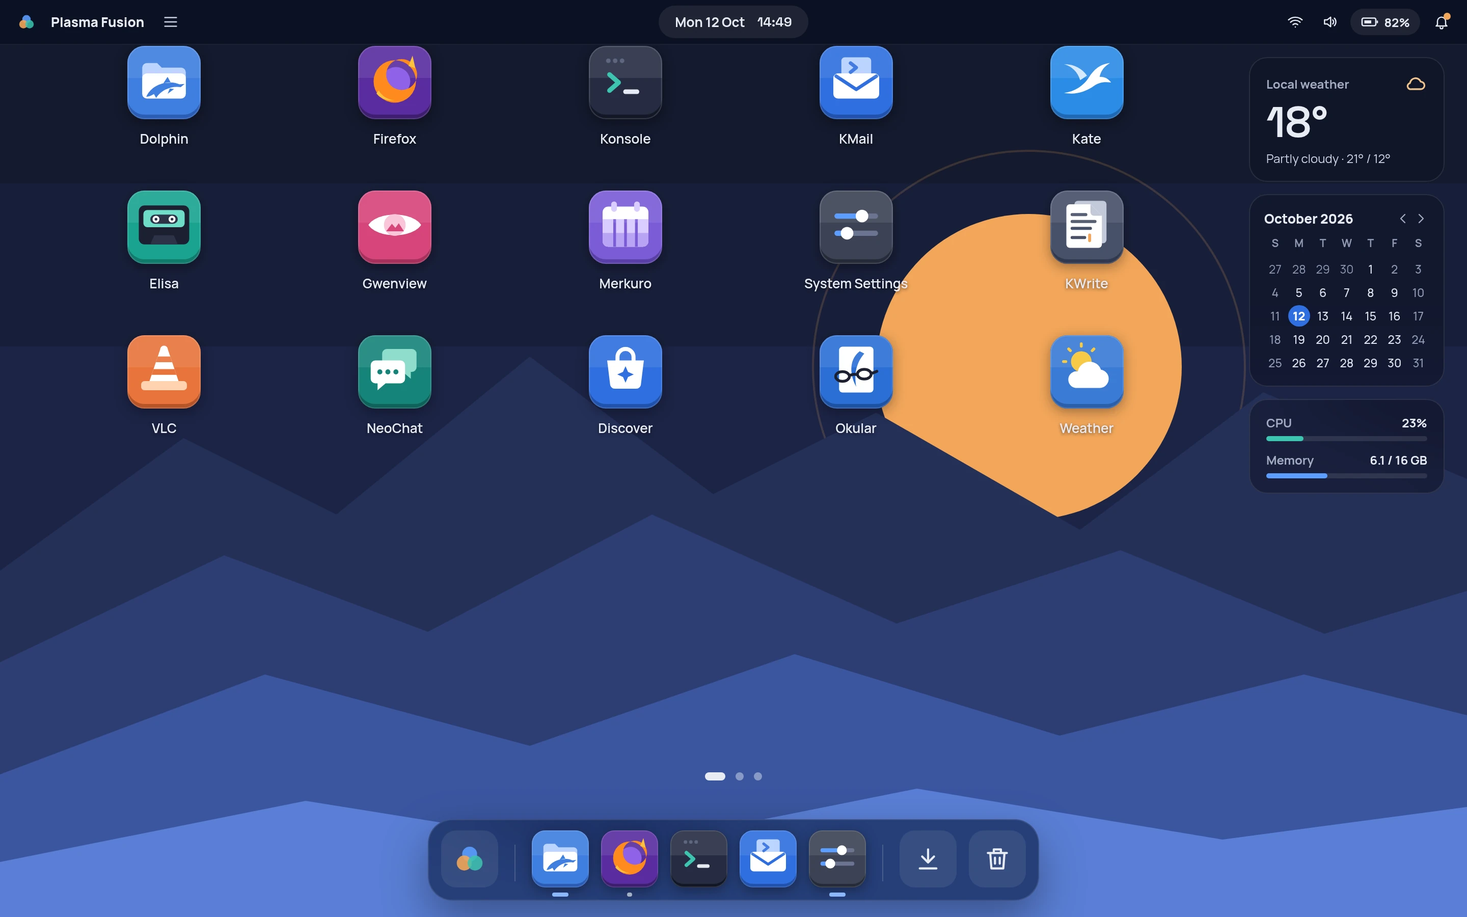
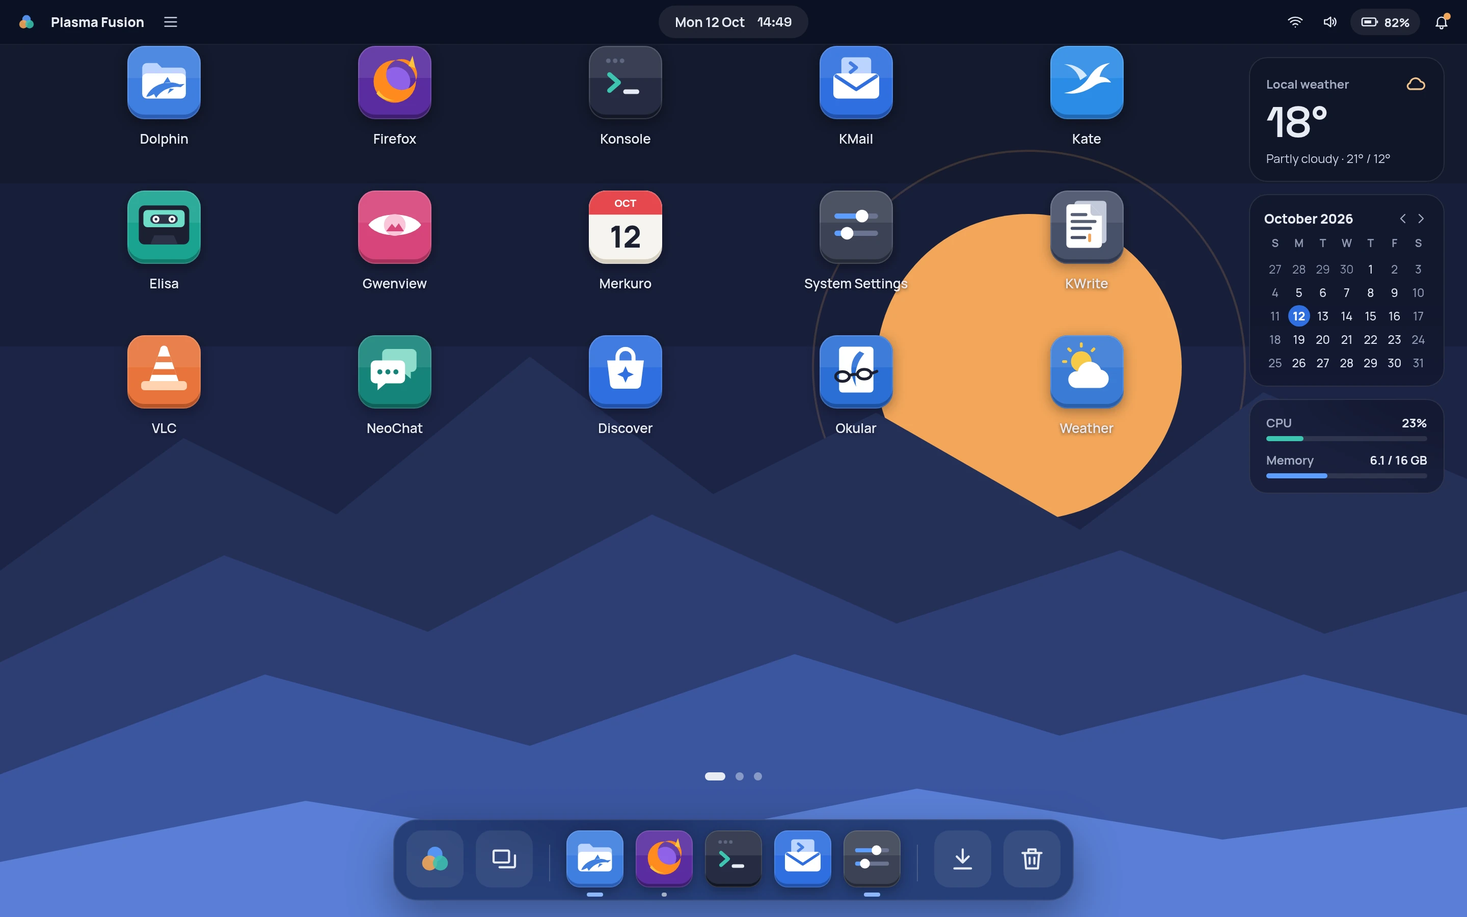
Design: the tablet dock keeps Overview; the calendar entry shows the date
The dock's overviewButton is unconditional while only searchButton is
gated on showSearch, which tablet posture turns off
(packages/plasmoids/org.plasmafusion.dock/contents/ui/main.qml), so both
tablet boards carry the Overview button between Start and the separator,
with the dock's own glyph.

The home grid's calendar entry drew the Merkuro suite tile, which carries
no labels; the tile the theme ships for a calendar name is the dated art
(generators/icons/art_tiles.py TILES['calendar'], the same art the Icons
board shows) and FusionIconTile paints today's month and day over its
fixed SEP / 28 (packages/common/FusionIconTile.qml, calendarDate). The
board now draws that art with the overlay painted as the component does;
the snapshot date matches the boards' Mon 12 Oct pill.

Previews re-rendered with design/render/render.py (Tablet, TabletLight).

Changed region(s): [[0.25, 0.8711, 0.75, 0.9956], [0.375, 0.1867, 0.4688, 0.3111]]

diff --git a/design/boards/TabletLight.dc.html b/design/boards/TabletLight.dc.html
@@ -68,7 +68,7 @@ a{color:#2f6fdf}a:hover{color:#2359c4}
 </div>
 
 <div style="display:flex;flex-direction:column;align-items:center;justify-content:center;gap:10px;height:100%">
-<button aria-label="Merkuro" class="tile" style="width:72px;height:72px;border-radius:19px"><svg xmlns="http://www.w3.org/2000/svg" width="72" height="72" viewBox="0 0 64 64"><path d="M15 0h34a15 15 0 0 1 15 15v34a15 15 0 0 1 -15 15h-34a15 15 0 0 1 -15 -15v-34a15 15 0 0 1 15 -15z" fill="#5a40a8"/><path d="M15 0h34a15 15 0 0 1 15 15v30a15 15 0 0 1 -15 15h-34a15 15 0 0 1 -15 -15v-30a15 15 0 0 1 15 -15z" fill="#7b5cd6"/><path d="M15 0h34a15 15 0 0 1 15 15v13H0V15A15 15 0 0 1 15 0z" fill="#ffffff" fill-opacity="0.09"/><path d="M17 14h30a5 5 0 0 1 5 5v25a5 5 0 0 1 -5 5h-30a5 5 0 0 1 -5 -5v-25a5 5 0 0 1 5 -5z" fill="#ffffff"/><path fill-rule="evenodd" d="M12 25H52V44a5 5 0 0 1-5 5H17a5 5 0 0 1-5-5z" fill="#d9ccff"/><path fill-rule="evenodd" d="M12 37H52V44a5 5 0 0 1-5 5H17a5 5 0 0 1-5-5z" fill="#b8a4f4"/><path d="M21.3 25h2.4a0 0 0 0 1 0 0v24a0 0 0 0 1 0 0h-2.4a0 0 0 0 1 0 0v-24a0 0 0 0 1 0 0zM30.8 25h2.4a0 0 0 0 1 0 0v24a0 0 0 0 1 0 0h-2.4a0 0 0 0 1 0 0v-24a0 0 0 0 1 0 0zM40.3 25h2.4a0 0 0 0 1 0 0v24a0 0 0 0 1 0 0h-2.4a0 0 0 0 1 0 0v-24a0 0 0 0 1 0 0z" fill="#7b5cd6"/><path d="M22 9.5h0a2.5 2.5 0 0 1 2.5 2.5v4a2.5 2.5 0 0 1 -2.5 2.5h0a2.5 2.5 0 0 1 -2.5 -2.5v-4a2.5 2.5 0 0 1 2.5 -2.5zM42 9.5h0a2.5 2.5 0 0 1 2.5 2.5v4a2.5 2.5 0 0 1 -2.5 2.5h0a2.5 2.5 0 0 1 -2.5 -2.5v-4a2.5 2.5 0 0 1 2.5 -2.5z" fill="#d9ccff"/><path d="M21.3 25h2.4a0 0 0 0 1 0 0v24a0 0 0 0 1 0 0h-2.4a0 0 0 0 1 0 0v-24a0 0 0 0 1 0 0zM30.8 25h2.4a0 0 0 0 1 0 0v24a0 0 0 0 1 0 0h-2.4a0 0 0 0 1 0 0v-24a0 0 0 0 1 0 0zM40.3 25h2.4a0 0 0 0 1 0 0v24a0 0 0 0 1 0 0h-2.4a0 0 0 0 1 0 0v-24a0 0 0 0 1 0 0z" fill="url(#pf-sheen)"/><path d="M15 0.5h34a14.5 14.5 0 0 1 14.5 14.5v34a14.5 14.5 0 0 1 -14.5 14.5h-34a14.5 14.5 0 0 1 -14.5 -14.5v-34a14.5 14.5 0 0 1 14.5 -14.5z" fill="none" stroke="#ffffff" stroke-opacity="0.14" stroke-width="1" stroke-linecap="butt" stroke-linejoin="miter"/></svg></button>
+<button aria-label="Merkuro" class="tile" style="width:72px;height:72px;border-radius:19px"><svg xmlns="http://www.w3.org/2000/svg" width="72" height="72" viewBox="0 0 64 64"><path d="M15 0h34a15 15 0 0 1 15 15v34a15 15 0 0 1 -15 15h-34a15 15 0 0 1 -15 -15v-34a15 15 0 0 1 15 -15z" fill="#d6d0c2"/><path d="M15 0h34a15 15 0 0 1 15 15v30a15 15 0 0 1 -15 15h-34a15 15 0 0 1 -15 -15v-30a15 15 0 0 1 15 -15z" fill="#f6f4ef"/><path d="M15 0h34a15 15 0 0 1 15 15v13H0V15A15 15 0 0 1 15 0z" fill="#ffffff" fill-opacity="0.09"/><path d="M15 0h34a15 15 0 0 1 15 15v6H0V15A15 15 0 0 1 15 0z" fill="#e5484d"/><path d="M15 0.5h34a14.5 14.5 0 0 1 14.5 14.5v34a14.5 14.5 0 0 1 -14.5 14.5h-34a14.5 14.5 0 0 1 -14.5 -14.5v-34a14.5 14.5 0 0 1 14.5 -14.5z" fill="none" stroke="#ffffff" stroke-opacity="0.14" stroke-width="1" stroke-linecap="butt" stroke-linejoin="miter"/><path d="M25.3985 14.082C24.9185 14.082 24.4857 13.9972 24.1003 13.8277C23.7148 13.6583 23.3983 13.4153 23.1508 13.0987C22.9033 12.7822 22.7465 12.405 22.6805 11.967L23.9585 11.778C24.0485 12.15 24.2345 12.4365 24.5165 12.6375C24.7985 12.8385 25.1195 12.939 25.4795 12.939C25.6805 12.939 25.8755 12.9076 26.0645 12.8447C26.2535 12.7818 26.4088 12.6889 26.5303 12.566C26.6518 12.4433 26.7125 12.292 26.7125 12.1123C26.7125 12.0464 26.7028 11.9827 26.6833 11.9213C26.6637 11.8599 26.6315 11.8022 26.5865 11.7483C26.5415 11.6944 26.4778 11.6435 26.3953 11.5956C26.3127 11.5477 26.2085 11.5043 26.0825 11.4654L24.3995 10.9711C24.2735 10.9352 24.1273 10.8843 23.9608 10.8184C23.7943 10.7524 23.633 10.6581 23.477 10.5353C23.321 10.4125 23.1913 10.25 23.0878 10.0478C22.9843 9.8456 22.9325 9.5903 22.9325 9.2818C22.9325 8.8475 23.042 8.4866 23.261 8.1991C23.48 7.9116 23.7725 7.6974 24.1385 7.5566C24.5045 7.4159 24.9095 7.3455 25.3535 7.3455C25.8005 7.3455 26.1995 7.4191 26.5505 7.5664C26.9015 7.7138 27.1955 7.9281 27.4325 8.2092C27.6695 8.4904 27.8405 8.834 27.9455 9.24L26.6225 9.465C26.5745 9.255 26.486 9.078 26.357 8.934C26.228 8.79 26.0742 8.6805 25.8958 8.6055C25.7173 8.5305 25.5305 8.49 25.3355 8.484C25.1435 8.478 24.9627 8.5042 24.7933 8.5627C24.6238 8.6212 24.4857 8.706 24.3793 8.817C24.2728 8.928 24.2195 9.06 24.2195 9.213C24.2195 9.354 24.263 9.4688 24.35 9.5572C24.437 9.6457 24.5465 9.717 24.6785 9.771C24.8105 9.825 24.9455 9.87 25.0835 9.906L26.2085 10.212C26.3765 10.257 26.5625 10.3162 26.7665 10.3897C26.9705 10.4633 27.1663 10.5652 27.3538 10.6958C27.5412 10.8262 27.6958 10.998 27.8173 11.211C27.9388 11.424 27.9995 11.694 27.9995 12.021C27.9995 12.369 27.9268 12.6728 27.7813 12.9322C27.6357 13.1917 27.44 13.4063 27.194 13.5757C26.948 13.7452 26.6698 13.872 26.3593 13.956C26.0488 14.04 25.7285 14.082 25.3985 14.082M29.7095 13.947L29.7095 7.467L33.9395 7.467L33.9395 8.61L30.9335 8.61L30.9335 9.996L33.3995 9.996L33.3995 11.139L30.9335 11.139L30.9335 12.804L33.9395 12.804L33.9395 13.947L29.7095 13.947M35.7395 13.947L35.7395 7.476L38.4755 7.476C38.5385 7.476 38.6233 7.476 38.7297 7.476C38.8362 7.476 38.9315 7.4835 39.0155 7.4985C39.4025 7.5586 39.7197 7.6862 39.9672 7.8814C40.2147 8.0766 40.397 8.3221 40.514 8.6179C40.631 8.9138 40.6895 9.2434 40.6895 9.6067C40.6895 9.9701 40.6303 10.2997 40.5117 10.5955C40.3932 10.8912 40.2102 11.1367 39.9627 11.332C39.7152 11.5273 39.3995 11.6549 39.0155 11.7148C38.9315 11.727 38.8355 11.736 38.7275 11.742C38.6195 11.748 38.5355 11.751 38.4755 11.751L36.9635 11.751L36.9635 13.947L35.7395 13.947M36.9635 10.608L38.4215 10.608C38.4845 10.608 38.5535 10.605 38.6285 10.599C38.7035 10.593 38.7725 10.581 38.8355 10.563C39.0005 10.518 39.128 10.4422 39.218 10.3357C39.308 10.2293 39.3703 10.1107 39.4047 9.9802C39.4392 9.8498 39.4565 9.726 39.4565 9.609C39.4565 9.492 39.4392 9.3682 39.4047 9.2377C39.3703 9.1073 39.308 8.9887 39.218 8.8822C39.128 8.7758 39.0005 8.7 38.8355 8.655C38.7725 8.637 38.7035 8.625 38.6285 8.619C38.5535 8.613 38.4845 8.61 38.4215 8.61L36.9635 8.61L36.9635 10.608" fill="#ffffff"/><path d="M17.57 49.496L17.57 47.312C17.57 46.0466 17.778 44.9936 18.194 44.153C18.61 43.3124 19.2124 42.619 20.001 42.073C20.7896 41.527 21.756 41.0806 22.9 40.734L24.642 40.188C25.2834 39.98 25.8206 39.7244 26.254 39.421C26.6874 39.1176 27.021 38.7494 27.255 38.316C27.489 37.8826 27.606 37.3886 27.606 36.834L27.606 36.73C27.606 35.8634 27.3114 35.1744 26.722 34.663C26.1326 34.1516 25.3266 33.896 24.304 33.896C23.2986 33.896 22.4884 34.169 21.873 34.715C21.2576 35.261 20.95 36.0454 20.95 37.068L20.95 37.536L17.622 37.536L17.622 37.12C17.622 35.8026 17.9166 34.6846 18.506 33.766C19.0954 32.8474 19.897 32.1454 20.911 31.66C21.925 31.1746 23.056 30.932 24.304 30.932C25.552 30.932 26.6786 31.1704 27.684 31.647C28.6894 32.1236 29.4824 32.791 30.063 33.649C30.6436 34.507 30.934 35.5166 30.934 36.678L30.934 36.938C30.934 38.0994 30.6956 39.083 30.219 39.889C29.7424 40.695 29.0966 41.3536 28.282 41.865C27.4674 42.3764 26.54 42.7966 25.5 43.126L23.836 43.646C23.0906 43.8714 22.51 44.1184 22.094 44.387C21.678 44.6556 21.3876 44.9504 21.223 45.271C21.0584 45.5916 20.976 45.9774 20.976 46.428L20.976 46.532L30.778 46.532L30.778 49.496L17.57 49.496M39.722 49.86C38.3354 49.86 37.109 49.652 36.043 49.236C34.977 48.82 34.145 48.2176 33.547 47.429C32.949 46.6404 32.65 45.7086 32.65 44.634L32.65 44.322C32.65 43.49 32.7974 42.801 33.092 42.255C33.3866 41.709 33.755 41.28 34.197 40.968C34.639 40.656 35.0594 40.4394 35.458 40.318L35.458 39.85C35.0594 39.7114 34.6606 39.486 34.262 39.174C33.8634 38.862 33.5384 38.446 33.287 37.926C33.0356 37.406 32.91 36.782 32.91 36.054L32.91 35.742C32.91 34.7886 33.1916 33.9524 33.755 33.233C34.3184 32.5136 35.1114 31.9504 36.134 31.543C37.1566 31.1356 38.3526 30.932 39.722 30.932C41.0914 30.932 42.2874 31.1356 43.31 31.543C44.3326 31.9504 45.1256 32.5136 45.689 33.233C46.2524 33.9524 46.534 34.7886 46.534 35.742L46.534 36.054C46.534 36.782 46.4084 37.406 46.157 37.926C45.9056 38.446 45.585 38.862 45.195 39.174C44.805 39.486 44.402 39.7114 43.986 39.85L43.986 40.318C44.402 40.4394 44.8266 40.656 45.26 40.968C45.6934 41.28 46.0574 41.709 46.352 42.255C46.6466 42.801 46.794 43.49 46.794 44.322L46.794 44.634C46.794 45.7086 46.495 46.6404 45.897 47.429C45.299 48.2176 44.467 48.82 43.401 49.236C42.335 49.652 41.1086 49.86 39.722 49.86M39.722 46.896C40.918 46.896 41.841 46.6664 42.491 46.207C43.141 45.7476 43.466 45.1366 43.466 44.374L43.466 44.166C43.466 43.4034 43.1496 42.7924 42.517 42.333C41.8844 41.8736 40.9526 41.644 39.722 41.644C38.5086 41.644 37.5814 41.8736 36.94 42.333C36.2986 42.7924 35.978 43.4034 35.978 44.166L35.978 44.374C35.978 45.1366 36.303 45.7476 36.953 46.207C37.603 46.6664 38.526 46.896 39.722 46.896M39.722 38.68C40.8314 38.68 41.6894 38.4806 42.296 38.082C42.9026 37.6834 43.206 37.12 43.206 36.392L43.206 36.184C43.206 35.456 42.894 34.8926 42.27 34.494C41.646 34.0954 40.7966 33.896 39.722 33.896C38.6474 33.896 37.798 34.0954 37.174 34.494C36.55 34.8926 36.238 35.456 36.238 36.184L36.238 36.392C36.238 37.12 36.5414 37.6834 37.148 38.082C37.7546 38.4806 38.6126 38.68 39.722 38.68" fill="#1b2031"/><rect x="14" y="3" width="36" height="16" fill="#e5484d"/><text x="32" y="14.2" text-anchor="middle" font-family="Manrope, system-ui, sans-serif" font-size="9" font-weight="800" fill="#ffffff">OCT</text><rect x="10" y="23" width="44" height="35" fill="#f6f4ef"/><text x="32" y="49.6" text-anchor="middle" font-family="Manrope, system-ui, sans-serif" font-size="26" font-weight="800" fill="#1b2031">12</text></svg></button>
 <span style="font-size:13px;font-weight:600;color:#ffffff;text-shadow:0 1px 3px rgba(0,0,0,0.55)">Merkuro</span>
 </div>
 
@@ -184,6 +184,7 @@ a{color:#2f6fdf}a:hover{color:#2359c4}
 <button aria-label="Start" style="width:56px;height:56px;border-radius:15px;display:flex;align-items:center;justify-content:center;background:rgba(255,255,255,0.08)">
 <svg width="32" height="32" viewBox="0 0 24 24" aria-hidden="true"><circle cx="12" cy="8.5" r="5.5" fill="#5b9dff" fill-opacity="0.9"></circle><circle cx="8" cy="15" r="5.5" fill="#f2a65a" fill-opacity="0.9"></circle><circle cx="16" cy="15" r="5.5" fill="#3cc4b0" fill-opacity="0.85"></circle></svg>
 </button>
+<button aria-label="Overview" style="width:56px;height:56px;border-radius:15px;display:flex;align-items:center;justify-content:center;background:rgba(20,24,39,0.08);color:#28304a"><svg class="i" width="28" height="28" viewBox="0 0 24 24"><path d="M4 5h11a1 1 0 0 1 1 1v8a1 1 0 0 1-1 1H4a1 1 0 0 1-1-1V6a1 1 0 0 1 1-1zM8 19h12a1 1 0 0 0 1-1V9"></path></svg></button>
 <span style="width:1px;height:36px;margin:0 4px 6px;background:rgba(20,24,39,0.16)"></span>
 <div style="position:relative;display:flex;flex-direction:column;align-items:center">
 <button aria-label="Dolphin" style="display:block;width:56px;height:56px;filter:drop-shadow(0 3px 6px rgba(0,0,0,0.35))"><svg xmlns="http://www.w3.org/2000/svg" width="56" height="56" viewBox="0 0 64 64"><defs><linearGradient id="pf-sheen" gradientUnits="userSpaceOnUse" x1="0" y1="0" x2="0" y2="64"><stop offset="0" stop-color="#ffffff" stop-opacity="0.09"/><stop offset="0.4375" stop-color="#ffffff" stop-opacity="0.09"/><stop offset="0.4375" stop-color="#ffffff" stop-opacity="0"/></linearGradient></defs><path d="M15 0h34a15 15 0 0 1 15 15v34a15 15 0 0 1 -15 15h-34a15 15 0 0 1 -15 -15v-34a15 15 0 0 1 15 -15z" fill="#2b5db5"/><path d="M15 0h34a15 15 0 0 1 15 15v30a15 15 0 0 1 -15 15h-34a15 15 0 0 1 -15 -15v-30a15 15 0 0 1 15 -15z" fill="#3f7fe0"/><path d="M15 0h34a15 15 0 0 1 15 15v13H0V15A15 15 0 0 1 15 0z" fill="#ffffff" fill-opacity="0.09"/><path d="M13 19a4 4 0 0 1 4-4h9l4 4h17a4 4 0 0 1 4 4v19H13z" fill="#bcd4ff"/><path fill-rule="evenodd" d="M17 24h30a4 4 0 0 1 4 4v14a4 4 0 0 1 -4 4h-30a4 4 0 0 1 -4 -4v-14a4 4 0 0 1 4 -4z" fill="#ffffff"/><path fill-rule="evenodd" d="M16.5 44.5c3-7 10-11.5 18.5-12.5 4-.4 7.5.3 10.5 1.6l4.5-.4-3.4 2.8c-4.4-.7-9 0-13 2-3.6 1.8-6.5 4.4-8.5 7.4l-1.9-3.4c-2.4 1.5-4.6 2.3-6.7 2.5zM31.5 32.6l3.6-5.6 2.8 5.1zM37 37.2l-1.8 4.6 5.6-4.1z" fill="#3f7fe0"/><path d="M16.5 44.5c3-7 10-11.5 18.5-12.5 4-.4 7.5.3 10.5 1.6l4.5-.4-3.4 2.8c-4.4-.7-9 0-13 2-3.6 1.8-6.5 4.4-8.5 7.4l-1.9-3.4c-2.4 1.5-4.6 2.3-6.7 2.5zM31.5 32.6l3.6-5.6 2.8 5.1zM37 37.2l-1.8 4.6 5.6-4.1z" fill="url(#pf-sheen)" fill-rule="evenodd"/><path d="M15 0.5h34a14.5 14.5 0 0 1 14.5 14.5v34a14.5 14.5 0 0 1 -14.5 14.5h-34a14.5 14.5 0 0 1 -14.5 -14.5v-34a14.5 14.5 0 0 1 14.5 -14.5z" fill="none" stroke="#ffffff" stroke-opacity="0.14" stroke-width="1" stroke-linecap="butt" stroke-linejoin="miter"/></svg></button>

diff --git a/design/boards/Tablet.dc.html b/design/boards/Tablet.dc.html
@@ -68,7 +68,7 @@ a{color:#8ab8ff}a:hover{color:#b9d4ff}
 </div>
 
 <div style="display:flex;flex-direction:column;align-items:center;justify-content:center;gap:10px;height:100%">
-<button aria-label="Merkuro" class="tile" style="width:72px;height:72px;border-radius:19px"><svg xmlns="http://www.w3.org/2000/svg" width="72" height="72" viewBox="0 0 64 64"><path d="M15 0h34a15 15 0 0 1 15 15v34a15 15 0 0 1 -15 15h-34a15 15 0 0 1 -15 -15v-34a15 15 0 0 1 15 -15z" fill="#5a40a8"/><path d="M15 0h34a15 15 0 0 1 15 15v30a15 15 0 0 1 -15 15h-34a15 15 0 0 1 -15 -15v-30a15 15 0 0 1 15 -15z" fill="#7b5cd6"/><path d="M15 0h34a15 15 0 0 1 15 15v13H0V15A15 15 0 0 1 15 0z" fill="#ffffff" fill-opacity="0.09"/><path d="M17 14h30a5 5 0 0 1 5 5v25a5 5 0 0 1 -5 5h-30a5 5 0 0 1 -5 -5v-25a5 5 0 0 1 5 -5z" fill="#ffffff"/><path fill-rule="evenodd" d="M12 25H52V44a5 5 0 0 1-5 5H17a5 5 0 0 1-5-5z" fill="#d9ccff"/><path fill-rule="evenodd" d="M12 37H52V44a5 5 0 0 1-5 5H17a5 5 0 0 1-5-5z" fill="#b8a4f4"/><path d="M21.3 25h2.4a0 0 0 0 1 0 0v24a0 0 0 0 1 0 0h-2.4a0 0 0 0 1 0 0v-24a0 0 0 0 1 0 0zM30.8 25h2.4a0 0 0 0 1 0 0v24a0 0 0 0 1 0 0h-2.4a0 0 0 0 1 0 0v-24a0 0 0 0 1 0 0zM40.3 25h2.4a0 0 0 0 1 0 0v24a0 0 0 0 1 0 0h-2.4a0 0 0 0 1 0 0v-24a0 0 0 0 1 0 0z" fill="#7b5cd6"/><path d="M22 9.5h0a2.5 2.5 0 0 1 2.5 2.5v4a2.5 2.5 0 0 1 -2.5 2.5h0a2.5 2.5 0 0 1 -2.5 -2.5v-4a2.5 2.5 0 0 1 2.5 -2.5zM42 9.5h0a2.5 2.5 0 0 1 2.5 2.5v4a2.5 2.5 0 0 1 -2.5 2.5h0a2.5 2.5 0 0 1 -2.5 -2.5v-4a2.5 2.5 0 0 1 2.5 -2.5z" fill="#d9ccff"/><path d="M21.3 25h2.4a0 0 0 0 1 0 0v24a0 0 0 0 1 0 0h-2.4a0 0 0 0 1 0 0v-24a0 0 0 0 1 0 0zM30.8 25h2.4a0 0 0 0 1 0 0v24a0 0 0 0 1 0 0h-2.4a0 0 0 0 1 0 0v-24a0 0 0 0 1 0 0zM40.3 25h2.4a0 0 0 0 1 0 0v24a0 0 0 0 1 0 0h-2.4a0 0 0 0 1 0 0v-24a0 0 0 0 1 0 0z" fill="url(#pf-sheen)"/><path d="M15 0.5h34a14.5 14.5 0 0 1 14.5 14.5v34a14.5 14.5 0 0 1 -14.5 14.5h-34a14.5 14.5 0 0 1 -14.5 -14.5v-34a14.5 14.5 0 0 1 14.5 -14.5z" fill="none" stroke="#ffffff" stroke-opacity="0.14" stroke-width="1" stroke-linecap="butt" stroke-linejoin="miter"/></svg></button>
+<button aria-label="Merkuro" class="tile" style="width:72px;height:72px;border-radius:19px"><svg xmlns="http://www.w3.org/2000/svg" width="72" height="72" viewBox="0 0 64 64"><path d="M15 0h34a15 15 0 0 1 15 15v34a15 15 0 0 1 -15 15h-34a15 15 0 0 1 -15 -15v-34a15 15 0 0 1 15 -15z" fill="#d6d0c2"/><path d="M15 0h34a15 15 0 0 1 15 15v30a15 15 0 0 1 -15 15h-34a15 15 0 0 1 -15 -15v-30a15 15 0 0 1 15 -15z" fill="#f6f4ef"/><path d="M15 0h34a15 15 0 0 1 15 15v13H0V15A15 15 0 0 1 15 0z" fill="#ffffff" fill-opacity="0.09"/><path d="M15 0h34a15 15 0 0 1 15 15v6H0V15A15 15 0 0 1 15 0z" fill="#e5484d"/><path d="M15 0.5h34a14.5 14.5 0 0 1 14.5 14.5v34a14.5 14.5 0 0 1 -14.5 14.5h-34a14.5 14.5 0 0 1 -14.5 -14.5v-34a14.5 14.5 0 0 1 14.5 -14.5z" fill="none" stroke="#ffffff" stroke-opacity="0.14" stroke-width="1" stroke-linecap="butt" stroke-linejoin="miter"/><path d="M25.3985 14.082C24.9185 14.082 24.4857 13.9972 24.1003 13.8277C23.7148 13.6583 23.3983 13.4153 23.1508 13.0987C22.9033 12.7822 22.7465 12.405 22.6805 11.967L23.9585 11.778C24.0485 12.15 24.2345 12.4365 24.5165 12.6375C24.7985 12.8385 25.1195 12.939 25.4795 12.939C25.6805 12.939 25.8755 12.9076 26.0645 12.8447C26.2535 12.7818 26.4088 12.6889 26.5303 12.566C26.6518 12.4433 26.7125 12.292 26.7125 12.1123C26.7125 12.0464 26.7028 11.9827 26.6833 11.9213C26.6637 11.8599 26.6315 11.8022 26.5865 11.7483C26.5415 11.6944 26.4778 11.6435 26.3953 11.5956C26.3127 11.5477 26.2085 11.5043 26.0825 11.4654L24.3995 10.9711C24.2735 10.9352 24.1273 10.8843 23.9608 10.8184C23.7943 10.7524 23.633 10.6581 23.477 10.5353C23.321 10.4125 23.1913 10.25 23.0878 10.0478C22.9843 9.8456 22.9325 9.5903 22.9325 9.2818C22.9325 8.8475 23.042 8.4866 23.261 8.1991C23.48 7.9116 23.7725 7.6974 24.1385 7.5566C24.5045 7.4159 24.9095 7.3455 25.3535 7.3455C25.8005 7.3455 26.1995 7.4191 26.5505 7.5664C26.9015 7.7138 27.1955 7.9281 27.4325 8.2092C27.6695 8.4904 27.8405 8.834 27.9455 9.24L26.6225 9.465C26.5745 9.255 26.486 9.078 26.357 8.934C26.228 8.79 26.0742 8.6805 25.8958 8.6055C25.7173 8.5305 25.5305 8.49 25.3355 8.484C25.1435 8.478 24.9627 8.5042 24.7933 8.5627C24.6238 8.6212 24.4857 8.706 24.3793 8.817C24.2728 8.928 24.2195 9.06 24.2195 9.213C24.2195 9.354 24.263 9.4688 24.35 9.5572C24.437 9.6457 24.5465 9.717 24.6785 9.771C24.8105 9.825 24.9455 9.87 25.0835 9.906L26.2085 10.212C26.3765 10.257 26.5625 10.3162 26.7665 10.3897C26.9705 10.4633 27.1663 10.5652 27.3538 10.6958C27.5412 10.8262 27.6958 10.998 27.8173 11.211C27.9388 11.424 27.9995 11.694 27.9995 12.021C27.9995 12.369 27.9268 12.6728 27.7813 12.9322C27.6357 13.1917 27.44 13.4063 27.194 13.5757C26.948 13.7452 26.6698 13.872 26.3593 13.956C26.0488 14.04 25.7285 14.082 25.3985 14.082M29.7095 13.947L29.7095 7.467L33.9395 7.467L33.9395 8.61L30.9335 8.61L30.9335 9.996L33.3995 9.996L33.3995 11.139L30.9335 11.139L30.9335 12.804L33.9395 12.804L33.9395 13.947L29.7095 13.947M35.7395 13.947L35.7395 7.476L38.4755 7.476C38.5385 7.476 38.6233 7.476 38.7297 7.476C38.8362 7.476 38.9315 7.4835 39.0155 7.4985C39.4025 7.5586 39.7197 7.6862 39.9672 7.8814C40.2147 8.0766 40.397 8.3221 40.514 8.6179C40.631 8.9138 40.6895 9.2434 40.6895 9.6067C40.6895 9.9701 40.6303 10.2997 40.5117 10.5955C40.3932 10.8912 40.2102 11.1367 39.9627 11.332C39.7152 11.5273 39.3995 11.6549 39.0155 11.7148C38.9315 11.727 38.8355 11.736 38.7275 11.742C38.6195 11.748 38.5355 11.751 38.4755 11.751L36.9635 11.751L36.9635 13.947L35.7395 13.947M36.9635 10.608L38.4215 10.608C38.4845 10.608 38.5535 10.605 38.6285 10.599C38.7035 10.593 38.7725 10.581 38.8355 10.563C39.0005 10.518 39.128 10.4422 39.218 10.3357C39.308 10.2293 39.3703 10.1107 39.4047 9.9802C39.4392 9.8498 39.4565 9.726 39.4565 9.609C39.4565 9.492 39.4392 9.3682 39.4047 9.2377C39.3703 9.1073 39.308 8.9887 39.218 8.8822C39.128 8.7758 39.0005 8.7 38.8355 8.655C38.7725 8.637 38.7035 8.625 38.6285 8.619C38.5535 8.613 38.4845 8.61 38.4215 8.61L36.9635 8.61L36.9635 10.608" fill="#ffffff"/><path d="M17.57 49.496L17.57 47.312C17.57 46.0466 17.778 44.9936 18.194 44.153C18.61 43.3124 19.2124 42.619 20.001 42.073C20.7896 41.527 21.756 41.0806 22.9 40.734L24.642 40.188C25.2834 39.98 25.8206 39.7244 26.254 39.421C26.6874 39.1176 27.021 38.7494 27.255 38.316C27.489 37.8826 27.606 37.3886 27.606 36.834L27.606 36.73C27.606 35.8634 27.3114 35.1744 26.722 34.663C26.1326 34.1516 25.3266 33.896 24.304 33.896C23.2986 33.896 22.4884 34.169 21.873 34.715C21.2576 35.261 20.95 36.0454 20.95 37.068L20.95 37.536L17.622 37.536L17.622 37.12C17.622 35.8026 17.9166 34.6846 18.506 33.766C19.0954 32.8474 19.897 32.1454 20.911 31.66C21.925 31.1746 23.056 30.932 24.304 30.932C25.552 30.932 26.6786 31.1704 27.684 31.647C28.6894 32.1236 29.4824 32.791 30.063 33.649C30.6436 34.507 30.934 35.5166 30.934 36.678L30.934 36.938C30.934 38.0994 30.6956 39.083 30.219 39.889C29.7424 40.695 29.0966 41.3536 28.282 41.865C27.4674 42.3764 26.54 42.7966 25.5 43.126L23.836 43.646C23.0906 43.8714 22.51 44.1184 22.094 44.387C21.678 44.6556 21.3876 44.9504 21.223 45.271C21.0584 45.5916 20.976 45.9774 20.976 46.428L20.976 46.532L30.778 46.532L30.778 49.496L17.57 49.496M39.722 49.86C38.3354 49.86 37.109 49.652 36.043 49.236C34.977 48.82 34.145 48.2176 33.547 47.429C32.949 46.6404 32.65 45.7086 32.65 44.634L32.65 44.322C32.65 43.49 32.7974 42.801 33.092 42.255C33.3866 41.709 33.755 41.28 34.197 40.968C34.639 40.656 35.0594 40.4394 35.458 40.318L35.458 39.85C35.0594 39.7114 34.6606 39.486 34.262 39.174C33.8634 38.862 33.5384 38.446 33.287 37.926C33.0356 37.406 32.91 36.782 32.91 36.054L32.91 35.742C32.91 34.7886 33.1916 33.9524 33.755 33.233C34.3184 32.5136 35.1114 31.9504 36.134 31.543C37.1566 31.1356 38.3526 30.932 39.722 30.932C41.0914 30.932 42.2874 31.1356 43.31 31.543C44.3326 31.9504 45.1256 32.5136 45.689 33.233C46.2524 33.9524 46.534 34.7886 46.534 35.742L46.534 36.054C46.534 36.782 46.4084 37.406 46.157 37.926C45.9056 38.446 45.585 38.862 45.195 39.174C44.805 39.486 44.402 39.7114 43.986 39.85L43.986 40.318C44.402 40.4394 44.8266 40.656 45.26 40.968C45.6934 41.28 46.0574 41.709 46.352 42.255C46.6466 42.801 46.794 43.49 46.794 44.322L46.794 44.634C46.794 45.7086 46.495 46.6404 45.897 47.429C45.299 48.2176 44.467 48.82 43.401 49.236C42.335 49.652 41.1086 49.86 39.722 49.86M39.722 46.896C40.918 46.896 41.841 46.6664 42.491 46.207C43.141 45.7476 43.466 45.1366 43.466 44.374L43.466 44.166C43.466 43.4034 43.1496 42.7924 42.517 42.333C41.8844 41.8736 40.9526 41.644 39.722 41.644C38.5086 41.644 37.5814 41.8736 36.94 42.333C36.2986 42.7924 35.978 43.4034 35.978 44.166L35.978 44.374C35.978 45.1366 36.303 45.7476 36.953 46.207C37.603 46.6664 38.526 46.896 39.722 46.896M39.722 38.68C40.8314 38.68 41.6894 38.4806 42.296 38.082C42.9026 37.6834 43.206 37.12 43.206 36.392L43.206 36.184C43.206 35.456 42.894 34.8926 42.27 34.494C41.646 34.0954 40.7966 33.896 39.722 33.896C38.6474 33.896 37.798 34.0954 37.174 34.494C36.55 34.8926 36.238 35.456 36.238 36.184L36.238 36.392C36.238 37.12 36.5414 37.6834 37.148 38.082C37.7546 38.4806 38.6126 38.68 39.722 38.68" fill="#1b2031"/><rect x="14" y="3" width="36" height="16" fill="#e5484d"/><text x="32" y="14.2" text-anchor="middle" font-family="Manrope, system-ui, sans-serif" font-size="9" font-weight="800" fill="#ffffff">OCT</text><rect x="10" y="23" width="44" height="35" fill="#f6f4ef"/><text x="32" y="49.6" text-anchor="middle" font-family="Manrope, system-ui, sans-serif" font-size="26" font-weight="800" fill="#1b2031">12</text></svg></button>
 <span style="font-size:13px;font-weight:600;text-shadow:0 1px 3px rgba(0,0,0,0.55)">Merkuro</span>
 </div>
 
@@ -184,6 +184,7 @@ a{color:#8ab8ff}a:hover{color:#b9d4ff}
 <button aria-label="Start" style="width:56px;height:56px;border-radius:15px;display:flex;align-items:center;justify-content:center;background:rgba(255,255,255,0.08)">
 <svg width="32" height="32" viewBox="0 0 24 24" aria-hidden="true"><circle cx="12" cy="8.5" r="5.5" fill="#5b9dff" fill-opacity="0.9"></circle><circle cx="8" cy="15" r="5.5" fill="#f2a65a" fill-opacity="0.9"></circle><circle cx="16" cy="15" r="5.5" fill="#3cc4b0" fill-opacity="0.85"></circle></svg>
 </button>
+<button aria-label="Overview" style="width:56px;height:56px;border-radius:15px;display:flex;align-items:center;justify-content:center;background:rgba(255,255,255,0.08);color:#e8ebf4"><svg class="i" width="28" height="28" viewBox="0 0 24 24"><path d="M4 5h11a1 1 0 0 1 1 1v8a1 1 0 0 1-1 1H4a1 1 0 0 1-1-1V6a1 1 0 0 1 1-1zM8 19h12a1 1 0 0 0 1-1V9"></path></svg></button>
 <span style="width:1px;height:36px;margin:0 4px 6px;background:rgba(255,255,255,0.16)"></span>
 <div style="position:relative;display:flex;flex-direction:column;align-items:center">
 <button aria-label="Dolphin" style="display:block;width:56px;height:56px;filter:drop-shadow(0 3px 6px rgba(0,0,0,0.35))"><svg xmlns="http://www.w3.org/2000/svg" width="56" height="56" viewBox="0 0 64 64"><defs><linearGradient id="pf-sheen" gradientUnits="userSpaceOnUse" x1="0" y1="0" x2="0" y2="64"><stop offset="0" stop-color="#ffffff" stop-opacity="0.09"/><stop offset="0.4375" stop-color="#ffffff" stop-opacity="0.09"/><stop offset="0.4375" stop-color="#ffffff" stop-opacity="0"/></linearGradient></defs><path d="M15 0h34a15 15 0 0 1 15 15v34a15 15 0 0 1 -15 15h-34a15 15 0 0 1 -15 -15v-34a15 15 0 0 1 15 -15z" fill="#2b5db5"/><path d="M15 0h34a15 15 0 0 1 15 15v30a15 15 0 0 1 -15 15h-34a15 15 0 0 1 -15 -15v-30a15 15 0 0 1 15 -15z" fill="#3f7fe0"/><path d="M15 0h34a15 15 0 0 1 15 15v13H0V15A15 15 0 0 1 15 0z" fill="#ffffff" fill-opacity="0.09"/><path d="M13 19a4 4 0 0 1 4-4h9l4 4h17a4 4 0 0 1 4 4v19H13z" fill="#bcd4ff"/><path fill-rule="evenodd" d="M17 24h30a4 4 0 0 1 4 4v14a4 4 0 0 1 -4 4h-30a4 4 0 0 1 -4 -4v-14a4 4 0 0 1 4 -4z" fill="#ffffff"/><path fill-rule="evenodd" d="M16.5 44.5c3-7 10-11.5 18.5-12.5 4-.4 7.5.3 10.5 1.6l4.5-.4-3.4 2.8c-4.4-.7-9 0-13 2-3.6 1.8-6.5 4.4-8.5 7.4l-1.9-3.4c-2.4 1.5-4.6 2.3-6.7 2.5zM31.5 32.6l3.6-5.6 2.8 5.1zM37 37.2l-1.8 4.6 5.6-4.1z" fill="#3f7fe0"/><path d="M16.5 44.5c3-7 10-11.5 18.5-12.5 4-.4 7.5.3 10.5 1.6l4.5-.4-3.4 2.8c-4.4-.7-9 0-13 2-3.6 1.8-6.5 4.4-8.5 7.4l-1.9-3.4c-2.4 1.5-4.6 2.3-6.7 2.5zM31.5 32.6l3.6-5.6 2.8 5.1zM37 37.2l-1.8 4.6 5.6-4.1z" fill="url(#pf-sheen)" fill-rule="evenodd"/><path d="M15 0.5h34a14.5 14.5 0 0 1 14.5 14.5v34a14.5 14.5 0 0 1 -14.5 14.5h-34a14.5 14.5 0 0 1 -14.5 -14.5v-34a14.5 14.5 0 0 1 14.5 -14.5z" fill="none" stroke="#ffffff" stroke-opacity="0.14" stroke-width="1" stroke-linecap="butt" stroke-linejoin="miter"/></svg></button>
